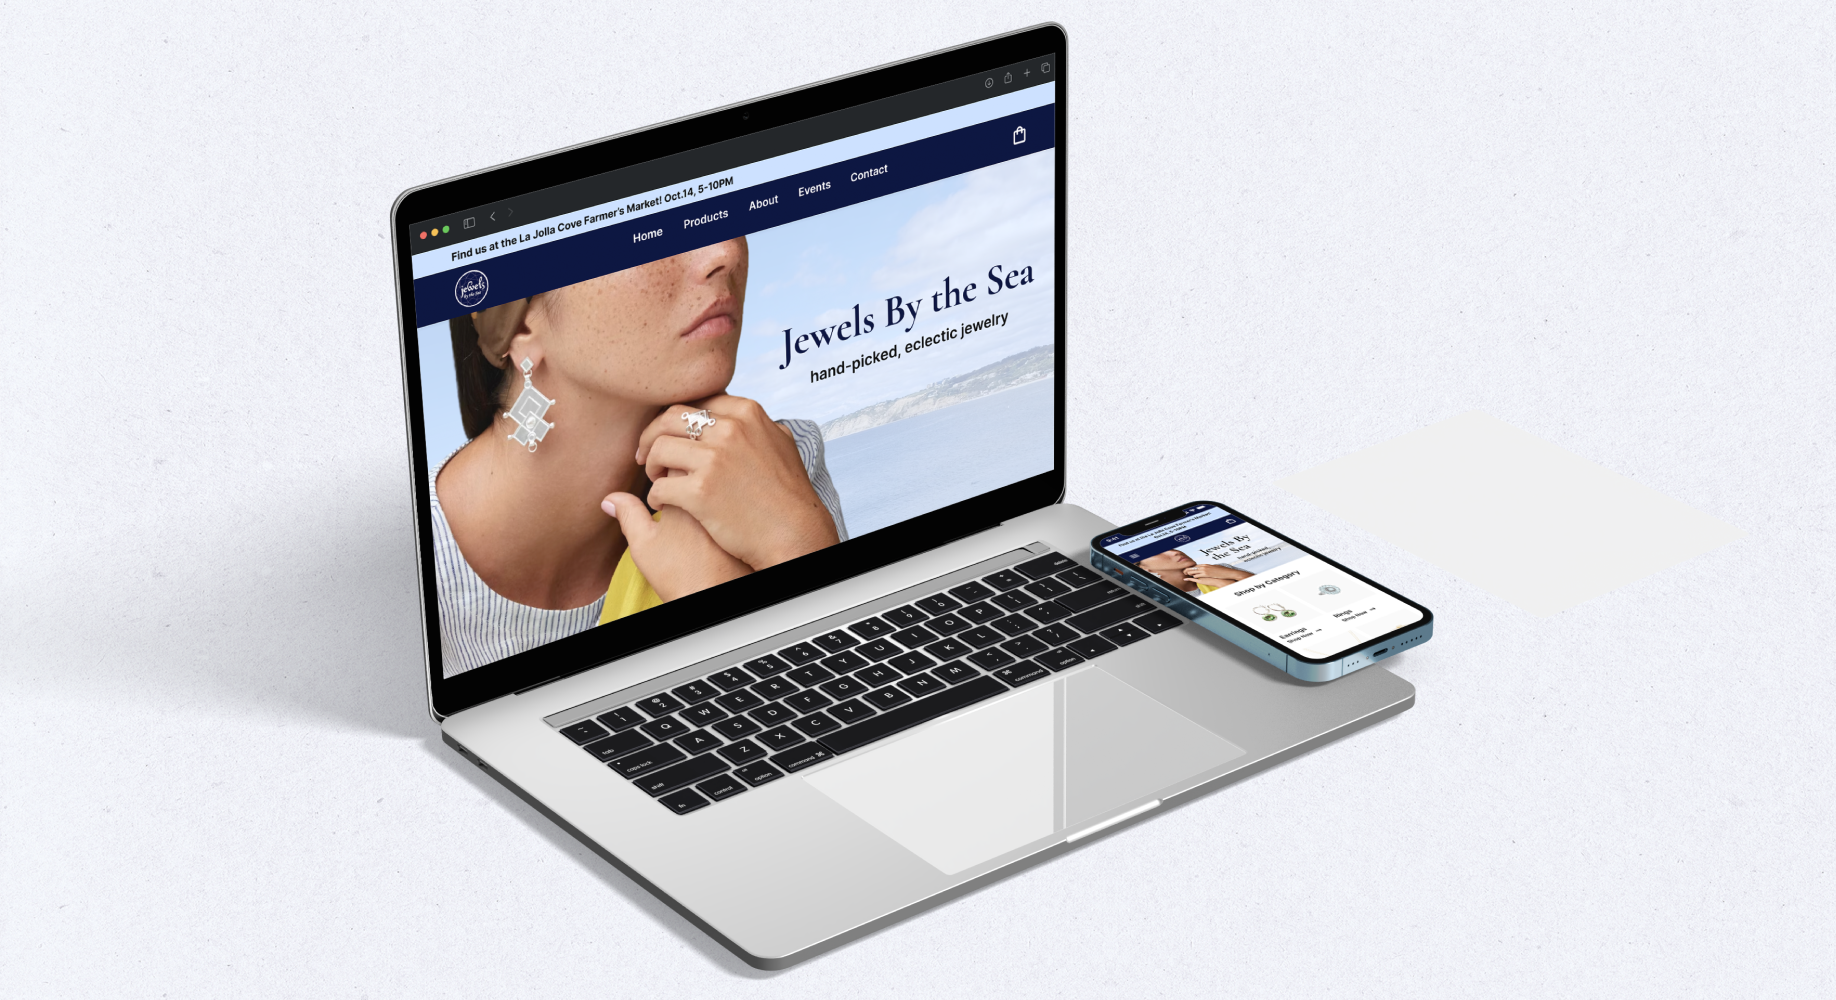
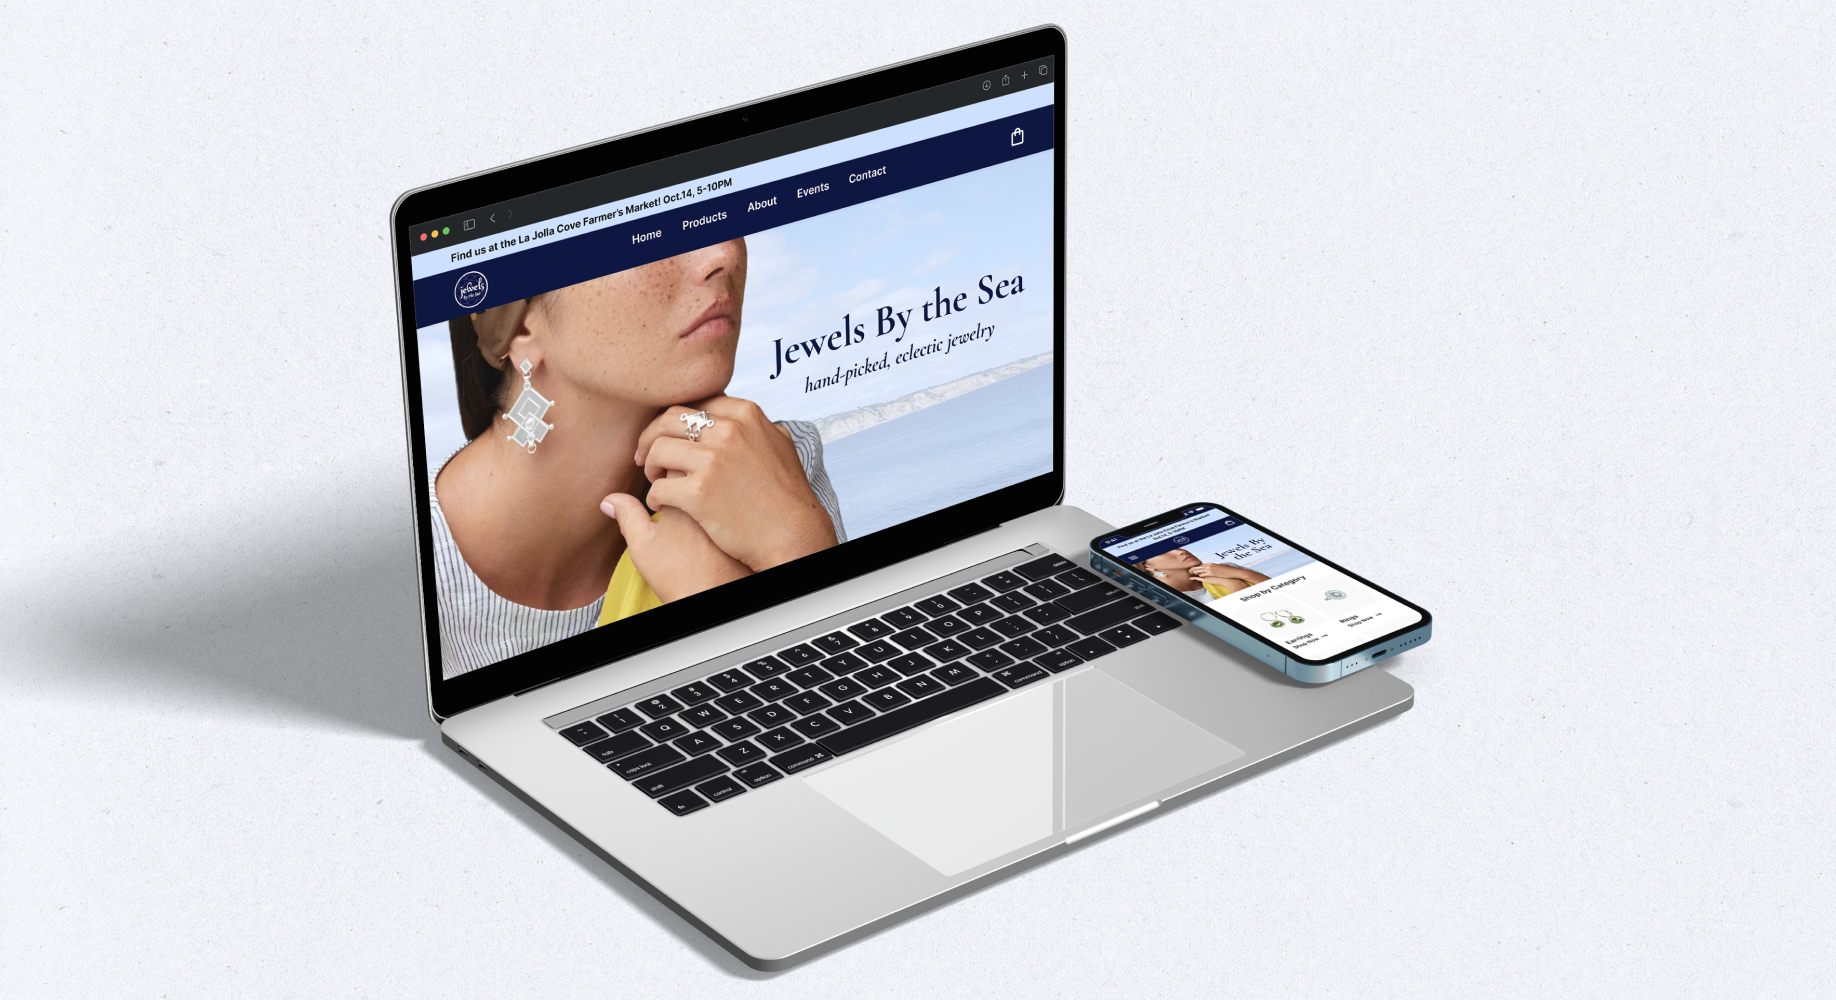
update jbts cs

diff --git a/JBTS.html b/JBTS.html
@@ -38,7 +38,7 @@
 
   <link rel="preconnect" href="https://fonts.googleapis.com">
   <link rel="preconnect" href="https://fonts.gstatic.com" crossorigin>
-  <link href="https://fonts.googleapis.com/css2?family=Cormorant+Garamond:wght@700&display=swap" rel="stylesheet">
+  <link href="https://fonts.googleapis.com/css2?family=Cormorant+Garamond:ital,wght@0,700;1,700&family=Inter:wght@100&display=swap" rel="stylesheet">
     
 
   <!-- CSS -->
@@ -609,14 +609,12 @@
             <br>
             <br>
             <br>
-              <h4 class="lighter-text">Font Pairing (Hero Section)</h4>
-              <h1 style="font-family: 'Cormorant Garamond', serif; font-size: 42px;  font-weight: 700;">Jewels By the Sea</h1>
-              <p style="font-size: 16px; font-family: Inter; font-weight: 600;">hand-picked, eclectic jewelry</p>
+              <h4 class="lighter-text">Fonts</h4>
+              <h1 style="font-family: 'Cormorant Garamond', serif; font-size: 42px;  font-weight: 700;">Cormorant Garamond</h1>
+              <h1 style="font-family: 'Cormorant Garamond', serif; font-size: 26px;  font-weight: 700;"><i>Cormorant Garamond (Italicized)</i></h1>
+              <p style="font-size: 20px; font-family: 'Inter'; font-weight: 600;">Inter</p>
               <br>
-              <p class="smaller-body-reg" style="margin: 0 0 5px 0">Title - Cormorant Garamond / Bold</p>
-              <p class="smaller-body-reg" style="margin: 0 0 5px 0">Body - Inter / Semi Bold</p>
-              <br>
-              <br>            
+        
           </div>
           <div class="col-lg-1"></div>
 
